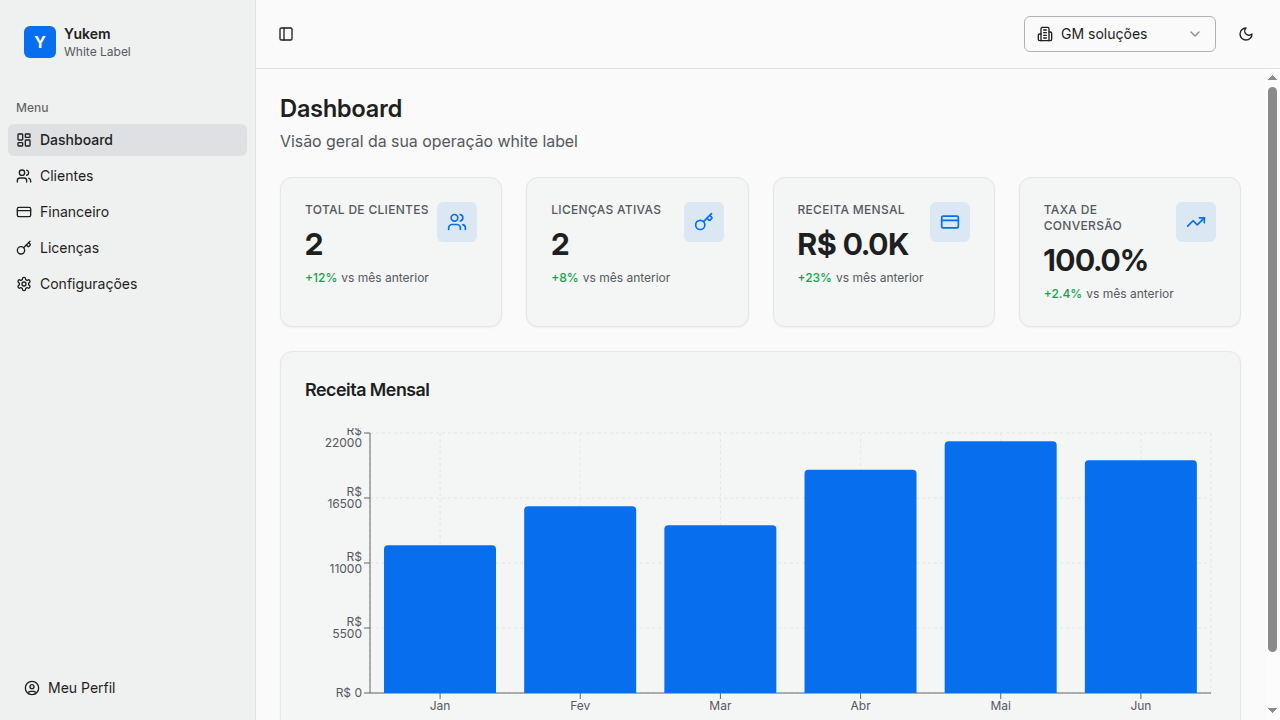
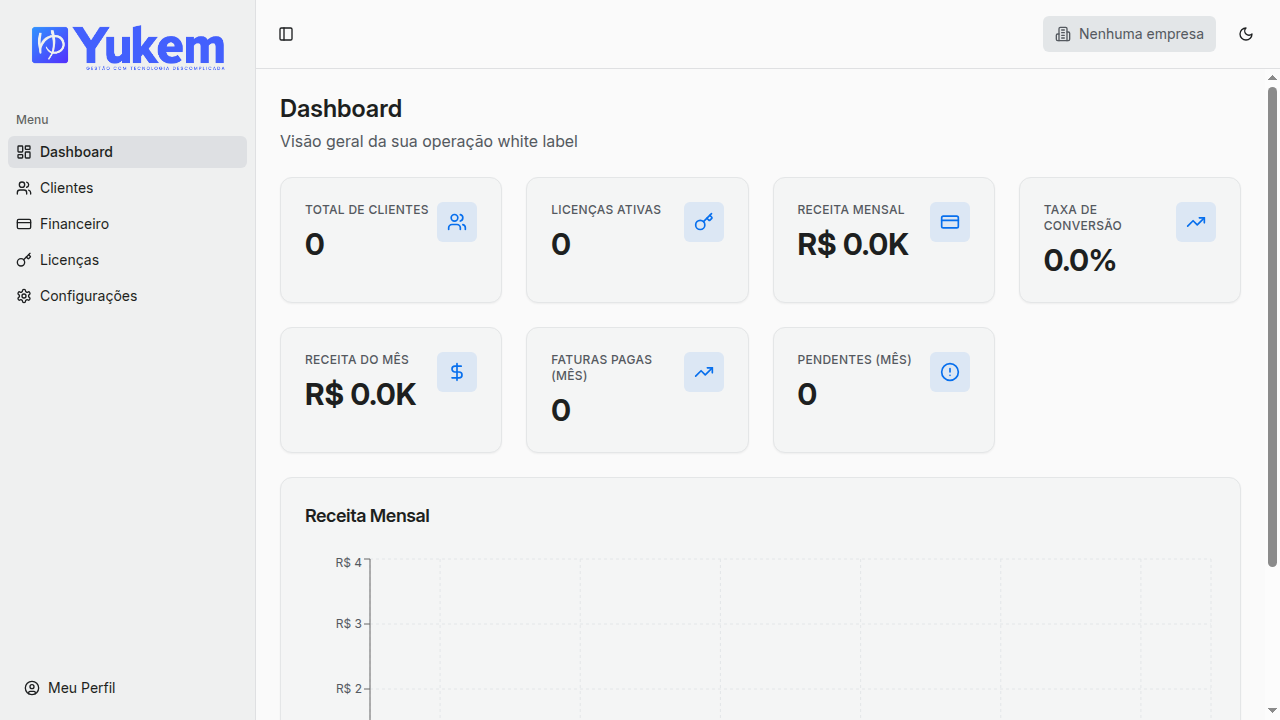
Allow users without an active company to see empty states gracefully
Modify the getCompanyIdForUser helper function to return null for regular users without an activeCompanyId, enabling graceful empty states in API responses for /api/licenses/check-overdue and /api/stats/dashboard.

Replit-Commit-Author: Agent
Replit-Commit-Session-Id: 44859dc2-ba50-44f7-9d28-eeabaf09a7f4
Replit-Commit-Checkpoint-Type: intermediate_checkpoint
Replit-Commit-Event-Id: 4f0e1ef7-8e21-413d-840d-3a3f3808583c
Replit-Commit-Screenshot-Url: https://storage.googleapis.com/screenshot-production-us-central1/a3fe6f5e-071d-4eda-8d42-3af26b5b12b5/44859dc2-ba50-44f7-9d28-eeabaf09a7f4/Qe9w7M5

diff --git a/server/routes.ts b/server/routes.ts
@@ -7,9 +7,9 @@ import { setupAuth, isAuthenticated, isAdmin, requirePermission, getUserFromSess
 
 // Helper function to get companyId for multi-tenant data isolation
 // Returns activeCompanyId if user has one set (for both admins and regular users)
-// Returns undefined only for admins without activeCompanyId (they can see all companies)
-// Throws error for regular users without activeCompanyId
-async function getCompanyIdForUser(req: any): Promise<string | undefined> {
+// Returns undefined for admins without activeCompanyId (they can see all companies)
+// Returns null for regular users without activeCompanyId (allows graceful empty state)
+async function getCompanyIdForUser(req: any): Promise<string | undefined | null> {
   // Use dbUserId from session if available, otherwise use OAuth ID
   const userId = req.user.dbUserId || req.user.claims.sub;
   console.log('[getCompanyIdForUser] Looking for user - dbUserId:', req.user.dbUserId, 'OAuth ID:', req.user.claims.sub, 'Using:', userId);
@@ -43,9 +43,9 @@ async function getCompanyIdForUser(req: any): Promise<string | undefined> {
     return undefined;
   }
   
-  // Regular users must have an active company
-  console.error('[getCompanyIdForUser] ERROR: Regular user does not have activeCompanyId set');
-  throw new Error('User does not have an active company set');
+  // Regular users without active company return null (allows graceful empty state)
+  console.log('[getCompanyIdForUser] Regular user without activeCompanyId - returning null for empty state');
+  return null;
 }
 
 // Helper to calculate trend percentage for statistics
@@ -496,6 +496,12 @@ export async function registerRoutes(app: Express): Promise<Server> {
   app.post("/api/licenses/check-overdue", isAuthenticated, async (req, res) => {
     try {
       const companyId = await getCompanyIdForUser(req);
+      
+      // Return empty result for users without company (graceful empty state)
+      if (companyId === null) {
+        return res.json({ blocked: 0, unblocked: 0 });
+      }
+      
       const result = await storage.checkAndBlockOverdueLicenses(companyId);
       res.json(result);
     } catch (error) {
@@ -783,6 +789,27 @@ export async function registerRoutes(app: Express): Promise<Server> {
   app.get("/api/stats/dashboard", isAuthenticated, requirePermission('invoices', 'read'), async (req, res) => {
     try {
       const companyId = await getCompanyIdForUser(req);
+      
+      // Return empty metrics for users without company (graceful empty state)
+      if (companyId === null) {
+        return res.json({
+          totalClients: 0,
+          totalClientsTrend: null,
+          activeLicenses: 0,
+          activeLicensesTrend: null,
+          monthlyRevenue: 0,
+          monthlyRevenueTrend: null,
+          conversionRate: 0,
+          conversionRateTrend: null,
+          totalRevenue: 0,
+          totalRevenueTrend: null,
+          paidInvoicesCount: 0,
+          paidInvoicesTrend: null,
+          pendingInvoicesCount: 0,
+          pendingInvoicesTrend: null,
+        });
+      }
+      
       const clients = await storage.getAllClients(companyId);
       const licenses = await storage.getAllLicenses(companyId);
       const invoices = await storage.getAllInvoices(companyId);
@@ -928,6 +955,19 @@ export async function registerRoutes(app: Express): Promise<Server> {
   app.get("/api/stats/monthly-revenue", isAuthenticated, async (req, res) => {
     try {
       const companyId = await getCompanyIdForUser(req);
+      
+      // Return empty chart data for users without company (graceful empty state)
+      if (companyId === null) {
+        const now = new Date();
+        const emptyMonthsData = [];
+        for (let i = 5; i >= 0; i--) {
+          const date = new Date(now.getFullYear(), now.getMonth() - i, 1);
+          const monthName = date.toLocaleDateString('pt-BR', { month: 'short' }).replace('.', '');
+          emptyMonthsData.push({ month: monthName, revenue: 0 });
+        }
+        return res.json(emptyMonthsData);
+      }
+      
       const invoices = await storage.getAllInvoices(companyId);
       
       // Get the last 6 months
@@ -970,6 +1010,21 @@ export async function registerRoutes(app: Express): Promise<Server> {
   app.get("/api/stats/financial", isAuthenticated, requirePermission('invoices', 'read'), async (req, res) => {
     try {
       const companyId = await getCompanyIdForUser(req);
+      
+      // Return empty metrics for users without company (graceful empty state)
+      if (companyId === null) {
+        return res.json({
+          totalRevenue: 0,
+          totalRevenueTrend: null,
+          paidInvoicesCount: 0,
+          paidInvoicesTrend: null,
+          pendingInvoicesCount: 0,
+          pendingInvoicesTrend: null,
+          overdueInvoicesCount: 0,
+          overdueInvoicesAmount: 0,
+        });
+      }
+      
       const invoices = await storage.getAllInvoices(companyId);
       
       // Current month boundaries
@@ -1042,6 +1097,17 @@ export async function registerRoutes(app: Express): Promise<Server> {
   app.get("/api/stats/licenses", isAuthenticated, requirePermission('licenses', 'read'), async (req, res) => {
     try {
       const companyId = await getCompanyIdForUser(req);
+      
+      // Return empty metrics for users without company (graceful empty state)
+      if (companyId === null) {
+        return res.json({
+          totalLicenses: 0,
+          activeLicenses: 0,
+          activeLicensesTrend: null,
+          inactiveLicenses: 0,
+        });
+      }
+      
       const licenses = await storage.getAllLicenses(companyId);
       
       // Current stats
